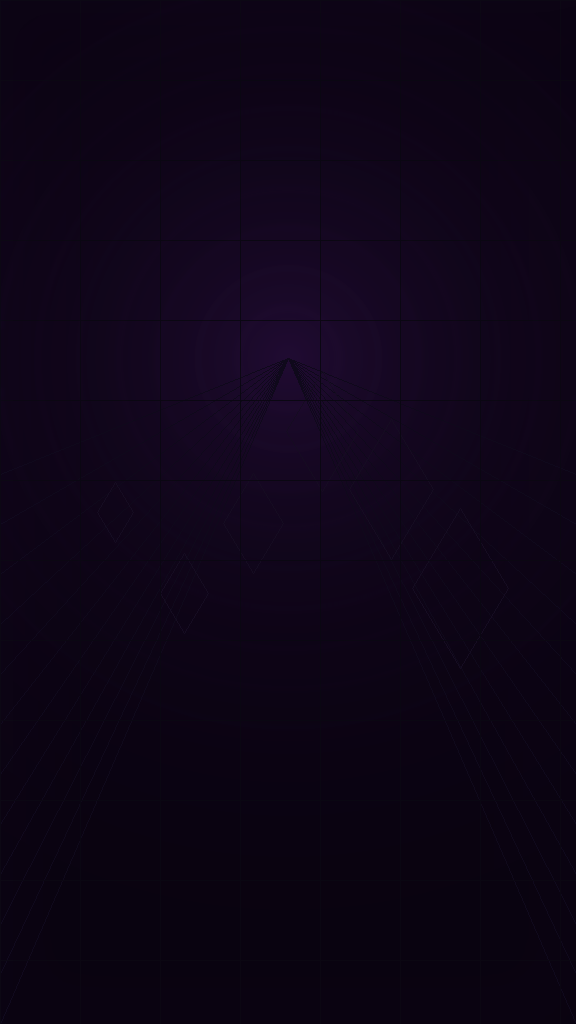
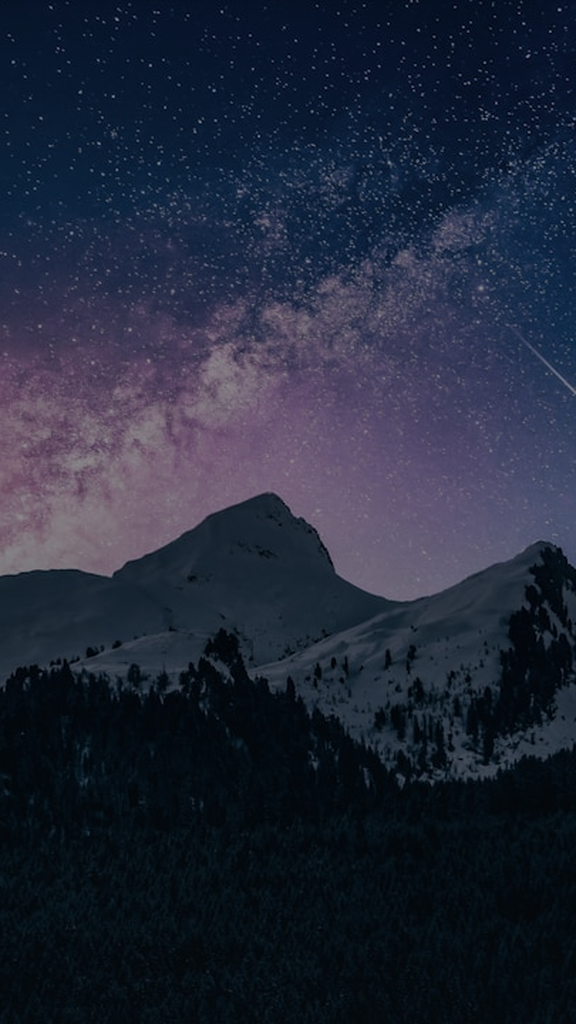
fix: use real ambition-themed background image and smaller subtitles
- Download real mountain peak photo from Unsplash as background
- Reduce subtitle FontSize from 34 to 20 for clean readability
- White text with black outline for contrast on photo background
- Subtitles positioned at bottom (Alignment=2, MarginV=40)
- Audio remains untouched (codec copy)

diff --git a/create_subtitle_video.py b/create_subtitle_video.py
@@ -1,32 +1,33 @@
 #!/usr/bin/env python3
 """
-Upgraded Subtitle Video Pipeline
----------------------------------
-Generates an ambition-themed dark background image (576x1024) using Pillow,
+Subtitle Video Pipeline
+------------------------
+Downloads a real ambition-themed background image from the internet,
+resizes it to 576x1024 (portrait), darkens it for readability,
 then uses ffmpeg to compose the final video with:
-- The generated background as a static video loop
-- Styled subtitles (golden/amber, bold, outlined, shadowed)
+- The real photo as a static video background
+- Clean, small subtitles at the bottom (FontSize=20)
 - Fade-in/fade-out transitions
 - Original audio (codec-copied, untouched)
 
 Prerequisites:
 - subtitles.srt (already exists)
 - audio.aac (already extracted)
-- Pillow, numpy installed
+- Pillow installed
 - ffmpeg available
+- Internet access (for downloading background image)
 """
 
 import os
 import subprocess
-import math
-import numpy as np
-from PIL import Image, ImageDraw, ImageFilter
+from PIL import Image, ImageEnhance
 
 # Configuration
 SCRIPT_DIR = os.path.dirname(os.path.abspath(__file__))
 WIDTH = 576
 HEIGHT = 1024
 BACKGROUND_PATH = os.path.join(SCRIPT_DIR, "background.png")
+BACKGROUND_RAW_PATH = os.path.join(SCRIPT_DIR, "background_raw.jpg")
 SUBTITLES_PATH = os.path.join(SCRIPT_DIR, "subtitles.srt")
 AUDIO_PATH = os.path.join(SCRIPT_DIR, "audio.aac")
 OUTPUT_PATH = os.path.join(SCRIPT_DIR, "output_with_subtitles.mp4")
@@ -34,125 +35,59 @@ DURATION = 60.7
 FPS = 30
 FADE_DURATION = 1.5
 
+# Unsplash image: snowy mountain peak at night - evokes ambition and determination
+BACKGROUND_URL = "https://images.unsplash.com/photo-1519681393784-d120267933ba?w=1080&q=80"
 
-def generate_background():
-    """Generate a dark ambition-themed background image with gradients and geometric patterns."""
-    print("Generating ambition-themed background image...")
 
-    # Create base image with dark gradient (dark navy/purple to black)
-    img = np.zeros((HEIGHT, WIDTH, 3), dtype=np.float64)
+def download_background():
+    """Download a real ambition-themed image and resize to 576x1024."""
+    print("Downloading ambition-themed background image...")
 
-    # Radial gradient from center - dark purple/navy emanating outward to black
-    center_y, center_x = HEIGHT * 0.35, WIDTH * 0.5
-    for y in range(HEIGHT):
-        for x in range(WIDTH):
-            # Distance from the light source point (upper center area)
-            dist = math.sqrt((x - center_x) ** 2 + (y - center_y) ** 2)
-            max_dist = math.sqrt(center_x ** 2 + center_y ** 2) * 1.2
+    # Download image using wget
+    cmd = ["wget", "-O", BACKGROUND_RAW_PATH, BACKGROUND_URL]
+    result = subprocess.run(cmd, capture_output=True, text=True)
+    if result.returncode != 0:
+        raise RuntimeError(f"Failed to download background image: {result.stderr}")
 
-            # Normalized distance (0 at center, 1 at edges)
-            norm_dist = min(dist / max_dist, 1.0)
+    print(f"Downloaded raw image to {BACKGROUND_RAW_PATH}")
 
-            # Exponential falloff for a dramatic light effect
-            intensity = math.exp(-3.0 * norm_dist)
+    # Open and resize to portrait 576x1024
+    img = Image.open(BACKGROUND_RAW_PATH)
+    print(f"  Raw image size: {img.size}")
 
-            # Dark navy/purple base with radial glow
-            # R: slight warm tone near center
-            img[y, x, 0] = 15 + 40 * intensity
-            # G: minimal
-            img[y, x, 1] = 5 + 15 * intensity
-            # B: deep blue/purple dominant
-            img[y, x, 2] = 25 + 60 * intensity
+    target_w, target_h = WIDTH, HEIGHT
+    target_ratio = target_w / target_h
 
-    # Convert to uint8
-    img = np.clip(img, 0, 255).astype(np.uint8)
-    pil_img = Image.fromarray(img, 'RGB')
+    w, h = img.size
+    current_ratio = w / h
 
-    # Add geometric patterns - angular lines evoking power/ambition
-    draw = ImageDraw.Draw(pil_img)
+    # Crop to target aspect ratio
+    if current_ratio > target_ratio:
+        # Image is wider - crop width
+        new_w = int(h * target_ratio)
+        left = (w - new_w) // 2
+        img = img.crop((left, 0, left + new_w, h))
+    else:
+        # Image is taller - crop height
+        new_h = int(w / target_ratio)
+        top = (h - new_h) // 2
+        img = img.crop((0, top, w, top + new_h))
 
-    # Draw subtle angular/geometric shapes (low opacity simulation with dark colors)
-    # Diagonal lines converging toward upper center
-    line_color_subtle = (25, 15, 45)  # Very dark purple
-    line_color_accent = (35, 20, 55)  # Slightly brighter purple accent
+    # Resize to exact target dimensions
+    img = img.resize((target_w, target_h), Image.LANCZOS)
 
-    # Converging lines from bottom corners toward the light source
-    for i in range(12):
-        offset = i * 50
-        # Lines from bottom-left area
-        draw.line(
-            [(0, HEIGHT - offset), (int(center_x), int(center_y))],
-            fill=line_color_subtle, width=1
-        )
-        # Lines from bottom-right area
-        draw.line(
-            [(WIDTH, HEIGHT - offset), (int(center_x), int(center_y))],
-            fill=line_color_subtle, width=1
-        )
+    # Darken the image for better subtitle readability
+    enhancer = ImageEnhance.Brightness(img)
+    img = enhancer.enhance(0.55)
 
-    # Add subtle diamond/rhombus shapes scattered around
-    for i in range(6):
-        cx = WIDTH * (0.2 + 0.6 * (i / 5.0))
-        cy = HEIGHT * (0.5 + 0.08 * math.sin(i * 1.5))
-        size = 30 + i * 10
-        points = [
-            (cx, cy - size),
-            (cx + size * 0.6, cy),
-            (cx, cy + size),
-            (cx - size * 0.6, cy)
-        ]
-        draw.polygon(points, outline=line_color_accent)
-
-    # Add faint grid lines (very subtle)
-    grid_color = (18, 12, 30)
-    for y in range(0, HEIGHT, 80):
-        draw.line([(0, y), (WIDTH, y)], fill=grid_color, width=1)
-    for x in range(0, WIDTH, 80):
-        draw.line([(x, 0), (x, HEIGHT)], fill=grid_color, width=1)
-
-    # Add a subtle radial glow/energy burst overlay
-    glow_layer = Image.new('RGB', (WIDTH, HEIGHT), (0, 0, 0))
-    glow_draw = ImageDraw.Draw(glow_layer)
-
-    # Concentric circles (faint) around the light source
-    for r in range(50, 400, 40):
-        brightness = max(5, int(25 * math.exp(-r / 200.0)))
-        glow_draw.ellipse(
-            [int(center_x - r), int(center_y - r),
-             int(center_x + r), int(center_y + r)],
-            outline=(brightness, brightness // 2, brightness + 10)
-        )
-
-    # Blur the glow layer for soft effect
-    glow_layer = glow_layer.filter(ImageFilter.GaussianBlur(radius=3))
-
-    # Blend glow with main image
-    from PIL import ImageChops
-    pil_img = ImageChops.add(pil_img, glow_layer)
-
-    # Add a slight vignette (darken edges)
-    vignette = Image.new('L', (WIDTH, HEIGHT), 0)
-    vignette_draw = ImageDraw.Draw(vignette)
-    for i in range(30):
-        alpha = int(255 * (1.0 - i / 30.0) * 0.4)
-        vignette_draw.rectangle(
-            [i * 3, i * 3, WIDTH - i * 3, HEIGHT - i * 3],
-            outline=alpha
-        )
-    # Apply vignette as darkening mask
-    vignette = vignette.filter(ImageFilter.GaussianBlur(radius=20))
-    vignette_array = np.array(vignette, dtype=np.float64) / 255.0
-    img_array = np.array(pil_img, dtype=np.float64)
-
-    # Vignette: darker at edges (invert mask so 0=edge, 1=center)
-    vignette_mask = 0.6 + 0.4 * vignette_array  # Range from 0.6 (edges) to 1.0 (center)
-    for c in range(3):
-        img_array[:, :, c] *= vignette_mask
-    img_array = np.clip(img_array, 0, 255).astype(np.uint8)
-    pil_img = Image.fromarray(img_array, 'RGB')
-
-    pil_img.save(BACKGROUND_PATH, 'PNG')
+    # Save as PNG
+    img.save(BACKGROUND_PATH, "PNG")
     print(f"Background saved: {BACKGROUND_PATH} ({WIDTH}x{HEIGHT})")
+
+    # Clean up raw download
+    if os.path.exists(BACKGROUND_RAW_PATH):
+        os.remove(BACKGROUND_RAW_PATH)
+
     return BACKGROUND_PATH
 
 
@@ -163,29 +98,27 @@ def create_video():
     # Calculate fade-out start time
     fade_out_start = DURATION - FADE_DURATION
 
-    # Subtitle styling using force_style (ASS style format)
-    # Golden/amber color: &H0080DDFF (BGR format in ASS: FF DD 80 00 -> gold/amber)
-    # Strong black outline, drop shadow
+    # Subtitle styling - clean, small, bottom-positioned
+    # FontSize=20 for readable but not overwhelming text
+    # White primary color with black outline for clean look on any background
+    # Alignment=2 (bottom-center), MarginV=40 for comfortable bottom padding
     subtitle_style = (
         "FontName=Noto Sans,"
         "Bold=1,"
-        "FontSize=34,"
-        "PrimaryColour=&H0080DDFF,"
+        "FontSize=20,"
+        "PrimaryColour=&H00FFFFFF,"
         "OutlineColour=&H00000000,"
         "BackColour=&H80000000,"
-        "Outline=3,"
-        "Shadow=2,"
-        "MarginV=60,"
+        "Outline=2,"
+        "Shadow=1,"
+        "MarginV=40,"
         "Alignment=2"
     )
 
-    # Escape the subtitles path for ffmpeg filter (replace backslash, colon, brackets)
+    # Escape the subtitles path for ffmpeg filter
     srt_escaped = SUBTITLES_PATH.replace("\\", "/").replace(":", "\\:")
 
-    # Build the complex filter
-    # 1. Loop background image for duration
-    # 2. Apply subtitles with force_style
-    # 3. Apply fade-in and fade-out
+    # Build the video filter chain
     video_filter = (
         f"loop=loop=-1:size=1:start=0,setpts=PTS-STARTPTS,"
         f"format=yuv420p,"
@@ -210,7 +143,7 @@ def create_video():
         OUTPUT_PATH
     ]
 
-    print(f"Running ffmpeg command...")
+    print("Running ffmpeg command...")
     print(f"  Output: {OUTPUT_PATH}")
 
     result = subprocess.run(cmd, capture_output=True, text=True)
@@ -262,8 +195,8 @@ def verify_output():
 
 
 if __name__ == "__main__":
-    # Step 1: Generate the ambition-themed background
-    generate_background()
+    # Step 1: Download and prepare the ambition-themed background
+    download_background()
 
     # Step 2: Create the video with subtitles, fades, and audio
     create_video()